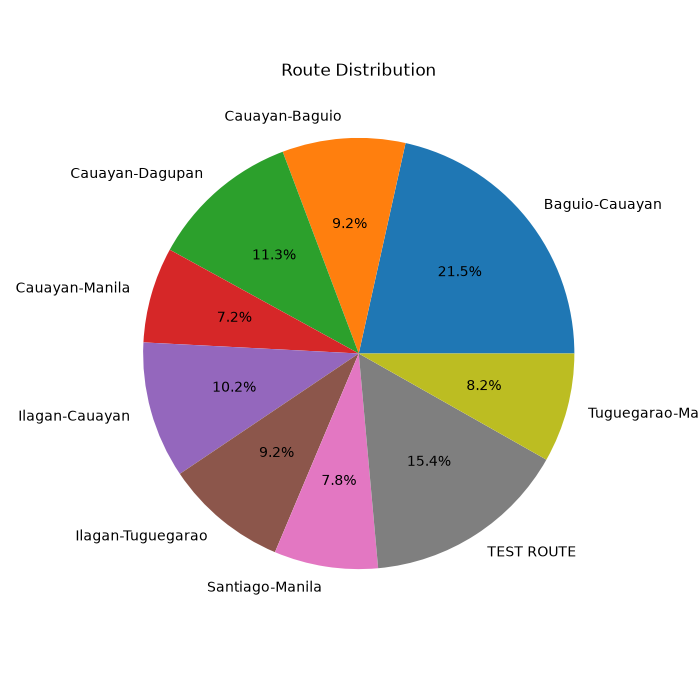
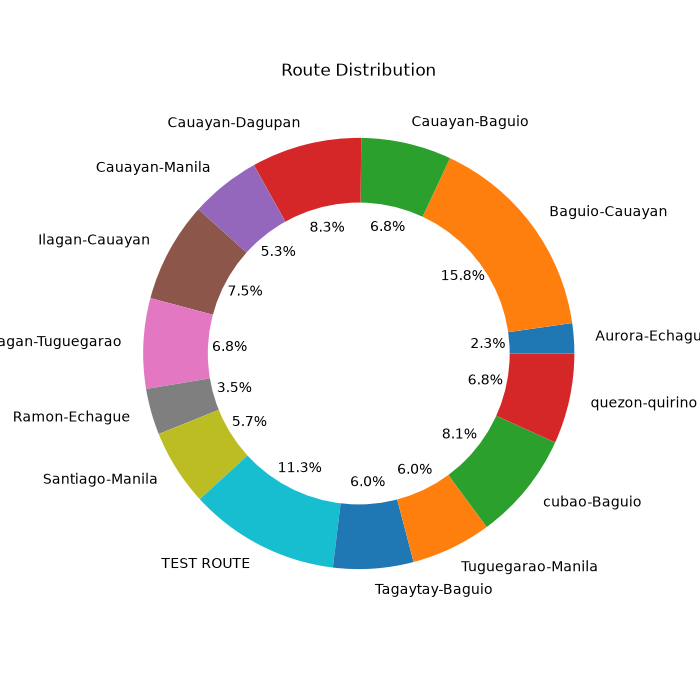
Enhanced analytics dashboard and data visualization features

diff --git a/analytics.py b/analytics.py
@@ -73,7 +73,25 @@ def passenger_bar_chart():
         passengers.append(row[1])
 
     plt.figure(figsize=(8, 5))
-    plt.bar(vehicles, passengers)
+    bars = plt.bar(
+    vehicles,
+    passengers,
+    color="royalblue"
+)
+    for bar in bars:
+
+        height = bar.get_height()
+
+    plt.text(
+        bar.get_x() +
+        bar.get_width()/2,
+
+        height,
+
+        str(height),
+
+        ha='center'
+    )
 
     plt.title("Passengers per Vehicle")
     plt.xlabel("Vehicle")
@@ -86,6 +104,59 @@ def passenger_bar_chart():
     plt.show()
 
     print("Passenger chart saved!")
+
+
+def route_comparison_chart():
+
+    conn = connect_db()
+    cursor = conn.cursor()
+
+    cursor.execute("""
+    SELECT route,
+           SUM(passengers)
+    FROM transit_records
+    GROUP BY route
+    """)
+
+    data = cursor.fetchall()
+
+    conn.close()
+
+    routes = [
+        x[0]
+        for x in data
+    ]
+
+    passengers = [
+        x[1]
+        for x in data
+    ]
+
+    plt.figure(
+        figsize=(9, 5)
+    )
+
+    plt.barh(
+        routes,
+        passengers,
+        color="green"
+    )
+
+    plt.xlabel("Passengers")
+
+    plt.ylabel("Routes")
+
+    plt.title(
+        "Route Comparison"
+    )
+
+    plt.tight_layout()
+
+    plt.savefig(
+        "charts/route_comparison.png"
+    )
+
+    plt.show()
 
 def route_pie_chart():
 
@@ -118,6 +189,18 @@ def route_pie_chart():
         autopct="%1.1f%%"
     )
 
+    centre_circle = plt.Circle(
+    (0, 0),
+    0.70,
+    fc='white'
+    )
+
+    fig = plt.gcf()
+
+    fig.gca().add_artist(
+    centre_circle
+    )
+        
     plt.title("Route Distribution")
 
     plt.savefig("charts/route_chart.png")
@@ -275,26 +358,44 @@ def top_5_routes():
     cursor = conn.cursor()
 
     cursor.execute("""
-        SELECT route,
-               SUM(passengers)
-        FROM transit_records
-        GROUP BY route
-        ORDER BY SUM(passengers) DESC
-        LIMIT 5
+    SELECT route,
+           SUM(passengers)
+    FROM transit_records
+    GROUP BY route
+    ORDER BY SUM(passengers) DESC
+    LIMIT 5
     """)
 
-    routes = cursor.fetchall()
+    results = cursor.fetchall()
 
-    print("\nTOP 5 BUSIEST ROUTES")
+    print(
+        "\nTOP 5 BUSIEST ROUTES"
+    )
 
-    for index, route in enumerate(routes, start=1):
+    for i, route in enumerate(results, start=1):
+
         print(
-            f"{index}. {route[0]} "
+            f"{i}. {route[0]} "
             f"({route[1]} passengers)"
         )
 
     conn.close()
 
+def dashboard_summary():
+
+    print("\n========== TRANSIT SUMMARY ==========")
+
+    total_passengers()
+
+    average_passengers()
+
+    most_used_route()
+
+    most_used_vehicle()
+
+    peak_travel_hours()
+
+    print("=====================================")
 
 
 ####TESTING LANG PO ITO HINDI ITO YONG MAIN.py
@@ -310,8 +411,10 @@ if __name__ == "__main__":
     print("6. Peak Travel Hours")
     print("7. Top 5 Routes")
     print("8. Passenger Bar Chart")
-    print("9. Route Pie Chart")
-    print("10. Vehicle Usage Chart")
+    print("9. Route Comparison Chart")
+    print("10. Route Pie Chart")
+    print("11. Vehicle Usage Chart")
+    print("12. Transit Summary")
     choice = input("Choose: ")
 
     if choice == "1":
@@ -339,7 +442,13 @@ if __name__ == "__main__":
         passenger_bar_chart()
 
     elif choice == "9":
-        route_pie_chart()
+        route_comparison_chart()
 
     elif choice == "10":
+        route_pie_chart()
+
+    elif choice == "11":
         vehicle_usage_chart()
+
+    elif choice == "12":
+        dashboard_summary()

diff --git a/main.py b/main.py
@@ -345,7 +345,8 @@ def analytics_menu():
         print("3. Most Used Route")
         print("4. Most Used Vehicle")
         print("5. Route Statistics")
-        print("6. Back")
+        print("6. Transit Summary")
+        print("7. Back")
 
         choice = input("Choose: ")
 
@@ -370,6 +371,9 @@ def analytics_menu():
             route_statistics()
 
         elif choice == "6":
+            dashboard_summary()
+
+        elif choice == "7":
             
             main_menu()
 
